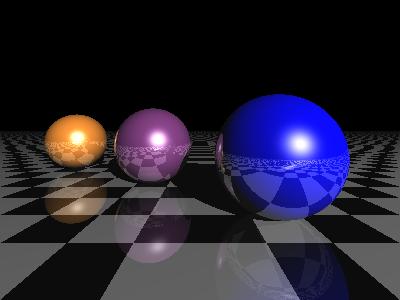
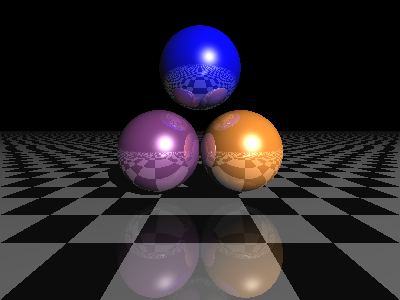
kugeln in mitte verschoben

diff --git a/Computergrafik/uebung_03/abgabe/rt3.py b/Computergrafik/uebung_03/abgabe/rt3.py
@@ -121,10 +121,12 @@ class CheckeredSphere(Sphere):
 
 def raytracing_Scene():
     scene = [
-        Sphere(vec3(.75, .1, 1), .6, rgb(0, 0, 1)),
-        Sphere(vec3(-.75, .1, 2.25), .6, rgb(.5, .223, .5)),
-        Sphere(vec3(-2.75, .1, 3.5), .6, rgb(1, .572, .184)),
+        #Sphere(vec3(.75, .1, 1), .6, rgb(0, 0, 1)),
+        Sphere(vec3(0, 1.1, 1.5), .5, rgb(0, 0, 1)),  # Obere Kugel
+        Sphere(vec3(-0.5, .1, 1.5), .5, rgb(.5, .223, .5)),  # Linke Kugel
+        Sphere(vec3(0.5, 0.1, 1.5), .5, rgb(1, .572, .184)),  # Rechte Kugel
         CheckeredSphere(vec3(0, -99999.5, 0), 99999, rgb(.75, .75, .75), 0.25),
+        #Sphere(vec3(-2.75, .1, 3.5), .6, rgb(1, .572, .184)),
     ]
 
     r = float(w) / h
